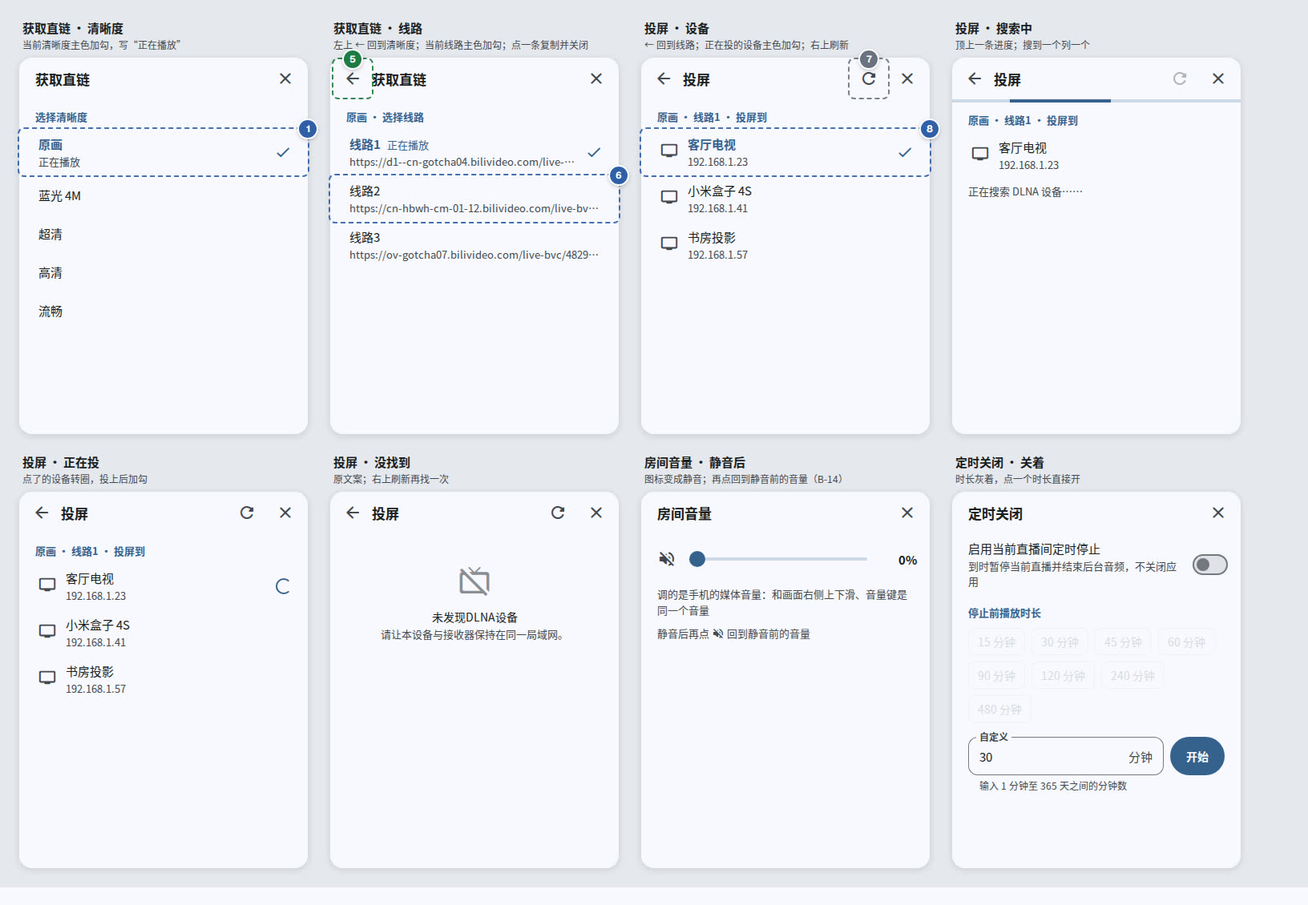
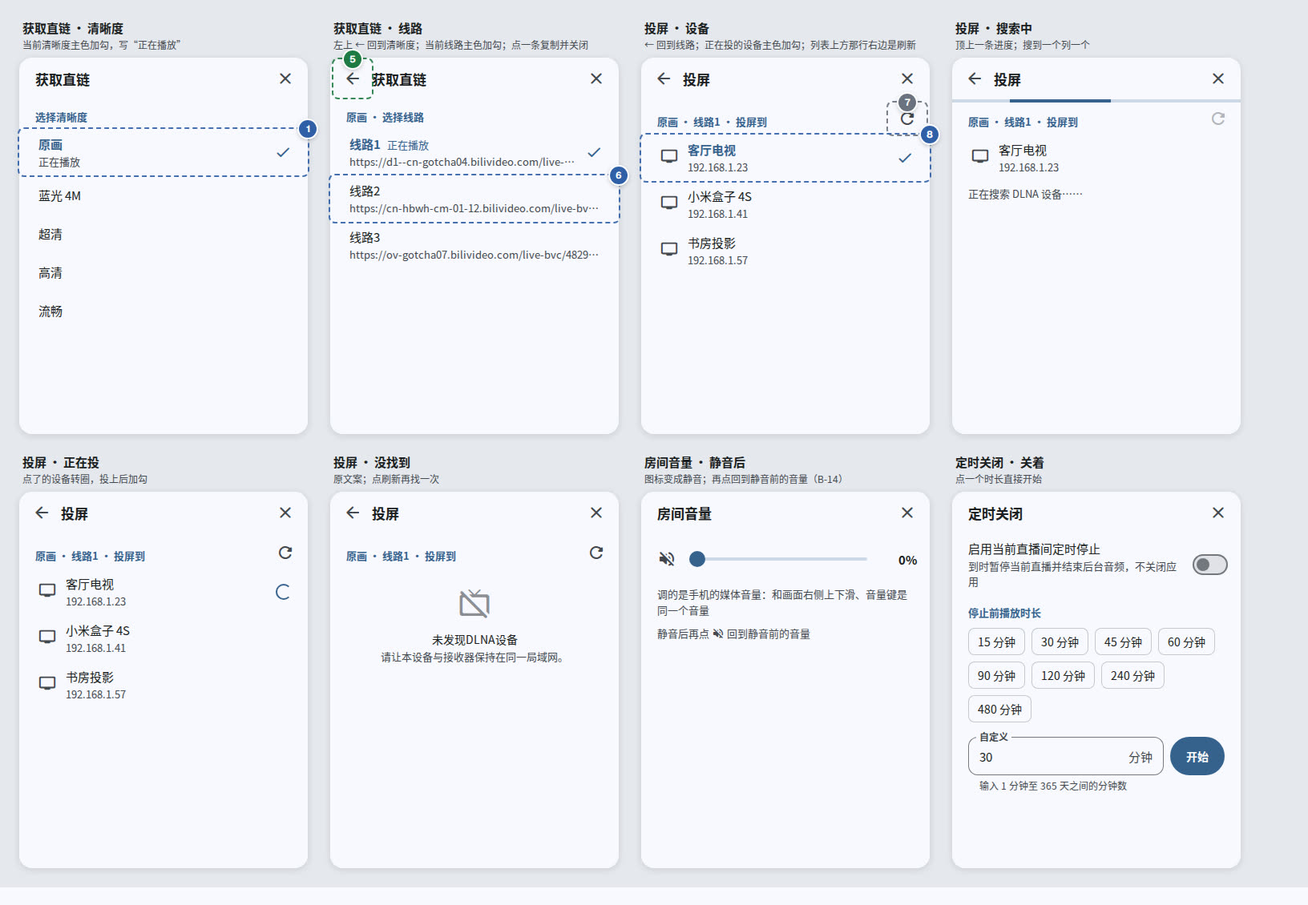
docs(ui): U.2n follows the build: cast refresh over the list, timer presets always tappable

diff --git a/docs/ui/compare/U.2n/src/v4-panels.html b/docs/ui/compare/U.2n/src/v4-panels.html
@@ -159,4 +159,4 @@
 .toast2 .x{flex:1;padding:6px 0}.toast2 .ac{height:40px;padding:0 12px;display:flex;align-items:center;color:#A0CAFD;font-weight:600}
 .lbl2{position:absolute;z-index:50;font:600 12px 'Noto Sans SC';color:#fff;background:#2F5FA8;padding:3px 8px;border-radius:6px}
 .press{position:absolute;z-index:6;border-radius:8px;background:rgba(54,97,142,.14)}
-.win{height:auto}</style></head><body><div class="win" style="--w:1632px;--h:1130px"><div style="display:flex;flex-wrap:wrap;gap:24px;padding:24px;background:var(--sch)"><div><div style="font-size:15px;font-weight:600;margin:0 0 2px 4px">获取直链 · 清晰度</div><div style="font-size:12px;color:var(--onv);margin:0 0 8px 4px;width:360px">当前清晰度主色加勾，写“正在播放”</div><div style="width:360px;height:470px;border-radius:16px;overflow:hidden;box-shadow:0 2px 10px rgba(0,0,0,.12)"><div class="pnl" style="height:100%"><div class="hd"><span class="t">获取直链</span><span class="b"><span class="mr" style="font-size:24px;">close</span></span></div><div class="bd"><div class="cap">选择清晰度</div><div class="opr on" data-n="1" data-at="tr" data-tag="chg"><div class="x"><div class="a">原画</div><div class="b">正在播放</div></div><span class="mr" style="font-size:22px;color:var(--primary)">check</span></div><div class="opr"><div class="x"><div class="a">蓝光 4M</div></div></div><div class="opr"><div class="x"><div class="a">超清</div></div></div><div class="opr"><div class="x"><div class="a">高清</div></div></div><div class="opr"><div class="x"><div class="a">流畅</div></div></div></div></div></div></div><div><div style="font-size:15px;font-weight:600;margin:0 0 2px 4px">获取直链 · 线路</div><div style="font-size:12px;color:var(--onv);margin:0 0 8px 4px;width:360px">左上 ← 回到清晰度；当前线路主色加勾；点一条复制并关闭</div><div style="width:360px;height:470px;border-radius:16px;overflow:hidden;box-shadow:0 2px 10px rgba(0,0,0,.12)"><div class="pnl" style="height:100%"><div class="hd bk"><span class="b" data-n="5" data-at="tc" data-tag="add"><span class="mr" style="font-size:24px;">arrow_back</span></span><span class="t">获取直链</span><span class="b"><span class="mr" style="font-size:24px;">close</span></span></div><div class="bd"><div class="cap">原画 · 选择线路</div><div class="opr on"><div class="x"><div class="a">线路1<span style="font-size:13px;font-weight:400;margin-left:8px">正在播放</span></div><div class="b">https://d1--cn-gotcha04.bilivideo.com/live-bvc/482910/live_1050_bluray.flv?expires=…</div></div><span class="mr" style="font-size:22px;color:var(--primary)">check</span></div><div class="opr" data-n="6" data-at="tr" data-tag="chg"><div class="x"><div class="a">线路2</div><div class="b">https://cn-hbwh-cm-01-12.bilivideo.com/live-bvc/482910/live_1050_bluray.flv?expires=…</div></div></div><div class="opr"><div class="x"><div class="a">线路3</div><div class="b">https://ov-gotcha07.bilivideo.com/live-bvc/482910/live_1050_bluray.m3u8?expires=…</div></div></div></div></div></div></div><div><div style="font-size:15px;font-weight:600;margin:0 0 2px 4px">投屏 · 设备</div><div style="font-size:12px;color:var(--onv);margin:0 0 8px 4px;width:360px">← 回到线路；正在投的设备主色加勾；右上刷新</div><div style="width:360px;height:470px;border-radius:16px;overflow:hidden;box-shadow:0 2px 10px rgba(0,0,0,.12)"><div class="pnl" style="height:100%"><div class="hd bk"><span class="b"><span class="mr" style="font-size:24px;">arrow_back</span></span><span class="t">投屏</span><span class="b" data-n="7" data-at="tc" data-tag="keep"><span class="mr" style="font-size:24px;">refresh</span></span><span class="b"><span class="mr" style="font-size:24px;">close</span></span></div><div class="bd"><div class="cap">原画 · 线路1 · 投屏到</div><div class="opr on" data-n="8" data-at="tr" data-tag="chg"><span class="lead"><span class="mr" style="font-size:22px;">tv</span></span><div class="x"><div class="a">客厅电视</div><div class="b">192.168.1.23</div></div><span class="mr" style="font-size:22px;color:var(--primary)">check</span></div><div class="opr"><span class="lead"><span class="mr" style="font-size:22px;">tv</span></span><div class="x"><div class="a">小米盒子 4S</div><div class="b">192.168.1.41</div></div></div><div class="opr"><span class="lead"><span class="mr" style="font-size:22px;">tv</span></span><div class="x"><div class="a">书房投影</div><div class="b">192.168.1.57</div></div></div></div></div></div></div><div><div style="font-size:15px;font-weight:600;margin:0 0 2px 4px">投屏 · 搜索中</div><div style="font-size:12px;color:var(--onv);margin:0 0 8px 4px;width:360px">顶上一条进度；搜到一个列一个</div><div style="width:360px;height:470px;border-radius:16px;overflow:hidden;box-shadow:0 2px 10px rgba(0,0,0,.12)"><div class="pnl" style="height:100%"><div class="hd bk"><span class="b"><span class="mr" style="font-size:24px;">arrow_back</span></span><span class="t">投屏</span><span class="b" style="opacity:.38"><span class="mr" style="font-size:24px;">refresh</span></span><span class="b"><span class="mr" style="font-size:24px;">close</span></span></div><div class="bd"><div class="prog"><i></i></div><div class="cap">原画 · 线路1 · 投屏到</div><div class="opr"><span class="lead"><span class="mr" style="font-size:22px;">tv</span></span><div class="x"><div class="a">客厅电视</div><div class="b">192.168.1.23</div></div></div><div class="hint">正在搜索 DLNA 设备……</div></div></div></div></div><div><div style="font-size:15px;font-weight:600;margin:0 0 2px 4px">投屏 · 正在投</div><div style="font-size:12px;color:var(--onv);margin:0 0 8px 4px;width:360px">点了的设备转圈，投上后加勾</div><div style="width:360px;height:470px;border-radius:16px;overflow:hidden;box-shadow:0 2px 10px rgba(0,0,0,.12)"><div class="pnl" style="height:100%"><div class="hd bk"><span class="b"><span class="mr" style="font-size:24px;">arrow_back</span></span><span class="t">投屏</span><span class="b"><span class="mr" style="font-size:24px;">refresh</span></span><span class="b"><span class="mr" style="font-size:24px;">close</span></span></div><div class="bd"><div class="cap">原画 · 线路1 · 投屏到</div><div class="opr"><span class="lead"><span class="mr" style="font-size:22px;">tv</span></span><div class="x"><div class="a">客厅电视</div><div class="b">192.168.1.23</div></div><span class="spin"></span></div><div class="opr"><span class="lead"><span class="mr" style="font-size:22px;">tv</span></span><div class="x"><div class="a">小米盒子 4S</div><div class="b">192.168.1.41</div></div></div><div class="opr"><span class="lead"><span class="mr" style="font-size:22px;">tv</span></span><div class="x"><div class="a">书房投影</div><div class="b">192.168.1.57</div></div></div></div></div></div></div><div><div style="font-size:15px;font-weight:600;margin:0 0 2px 4px">投屏 · 没找到</div><div style="font-size:12px;color:var(--onv);margin:0 0 8px 4px;width:360px">原文案；右上刷新再找一次</div><div style="width:360px;height:470px;border-radius:16px;overflow:hidden;box-shadow:0 2px 10px rgba(0,0,0,.12)"><div class="pnl" style="height:100%"><div class="hd bk"><span class="b"><span class="mr" style="font-size:24px;">arrow_back</span></span><span class="t">投屏</span><span class="b"><span class="mr" style="font-size:24px;">refresh</span></span><span class="b"><span class="mr" style="font-size:24px;">close</span></span></div><div class="bd"><div style="padding:40px 24px;text-align:center;color:var(--onv);font-size:14px;line-height:1.6"><span class="mr" style="font-size:40px;opacity:.6">tv_off</span><div style="margin-top:8px;color:var(--on)">未发现DLNA设备</div><div style="font-size:13px">请让本设备与接收器保持在同一局域网。</div></div></div></div></div></div><div><div style="font-size:15px;font-weight:600;margin:0 0 2px 4px">房间音量 · 静音后</div><div style="font-size:12px;color:var(--onv);margin:0 0 8px 4px;width:360px">图标变成静音；再点回到静音前的音量（B-14）</div><div style="width:360px;height:470px;border-radius:16px;overflow:hidden;box-shadow:0 2px 10px rgba(0,0,0,.12)"><div class="pnl" style="height:100%"><div class="hd"><span class="t">房间音量</span><span class="b"><span class="mr" style="font-size:24px;">close</span></span></div><div class="bd"><div class="vol"><span class="ib"><span class="mr" style="font-size:24px;">volume_off</span></span><div class="trk"><i style="width:0%"></i><b style="left:0%"></b></div><span class="pc">0%</span></div><div class="hint">调的是手机的媒体音量：和画面右侧上下滑、音量键是同一个音量</div><div class="hint" style="padding-top:10px">静音后再点 <span class="mr" style="font-size:16px;vertical-align:-3px">volume_off</span> 回到静音前的音量</div></div></div></div></div><div><div style="font-size:15px;font-weight:600;margin:0 0 2px 4px">定时关闭 · 关着</div><div style="font-size:12px;color:var(--onv);margin:0 0 8px 4px;width:360px">时长灰着，点一个时长直接开</div><div style="width:360px;height:470px;border-radius:16px;overflow:hidden;box-shadow:0 2px 10px rgba(0,0,0,.12)"><div class="pnl" style="height:100%"><div class="hd"><span class="t">定时关闭</span><span class="b"><span class="mr" style="font-size:24px;">close</span></span></div><div class="bd"><div class="swr2"><div class="x"><div class="a">启用当前直播间定时停止</div><div class="b">到时暂停当前直播并结束后台音频，不关闭应用</div></div><span class="swm off"></span></div><div class="cap">停止前播放时长</div><div class="chips dis"><span class="">15 分钟</span><span class="">30 分钟</span><span class="">45 分钟</span><span class="">60 分钟</span><span class="">90 分钟</span><span class="">120 分钟</span><span class="">240 分钟</span><span class="">480 分钟</span></div><div class="fdr"><div class="fd2"><span class="lbl">自定义</span><span>30</span><span class="sfx">分钟</span></div><span class="fbtn">开始</span></div><div class="fh2">输入 1 分钟至 365 天之间的分钟数</div></div></div></div></div></div></div></body></html>
+.win{height:auto}</style></head><body><div class="win" style="--w:1632px;--h:1130px"><div style="display:flex;flex-wrap:wrap;gap:24px;padding:24px;background:var(--sch)"><div><div style="font-size:15px;font-weight:600;margin:0 0 2px 4px">获取直链 · 清晰度</div><div style="font-size:12px;color:var(--onv);margin:0 0 8px 4px;width:360px">当前清晰度主色加勾，写“正在播放”</div><div style="width:360px;height:470px;border-radius:16px;overflow:hidden;box-shadow:0 2px 10px rgba(0,0,0,.12)"><div class="pnl" style="height:100%"><div class="hd"><span class="t">获取直链</span><span class="b"><span class="mr" style="font-size:24px;">close</span></span></div><div class="bd"><div class="cap">选择清晰度</div><div class="opr on" data-n="1" data-at="tr" data-tag="chg"><div class="x"><div class="a">原画</div><div class="b">正在播放</div></div><span class="mr" style="font-size:22px;color:var(--primary)">check</span></div><div class="opr"><div class="x"><div class="a">蓝光 4M</div></div></div><div class="opr"><div class="x"><div class="a">超清</div></div></div><div class="opr"><div class="x"><div class="a">高清</div></div></div><div class="opr"><div class="x"><div class="a">流畅</div></div></div></div></div></div></div><div><div style="font-size:15px;font-weight:600;margin:0 0 2px 4px">获取直链 · 线路</div><div style="font-size:12px;color:var(--onv);margin:0 0 8px 4px;width:360px">左上 ← 回到清晰度；当前线路主色加勾；点一条复制并关闭</div><div style="width:360px;height:470px;border-radius:16px;overflow:hidden;box-shadow:0 2px 10px rgba(0,0,0,.12)"><div class="pnl" style="height:100%"><div class="hd bk"><span class="b" data-n="5" data-at="tc" data-tag="add"><span class="mr" style="font-size:24px;">arrow_back</span></span><span class="t">获取直链</span><span class="b"><span class="mr" style="font-size:24px;">close</span></span></div><div class="bd"><div class="cap">原画 · 选择线路</div><div class="opr on"><div class="x"><div class="a">线路1<span style="font-size:13px;font-weight:400;margin-left:8px">正在播放</span></div><div class="b">https://d1--cn-gotcha04.bilivideo.com/live-bvc/482910/live_1050_bluray.flv?expires=…</div></div><span class="mr" style="font-size:22px;color:var(--primary)">check</span></div><div class="opr" data-n="6" data-at="tr" data-tag="chg"><div class="x"><div class="a">线路2</div><div class="b">https://cn-hbwh-cm-01-12.bilivideo.com/live-bvc/482910/live_1050_bluray.flv?expires=…</div></div></div><div class="opr"><div class="x"><div class="a">线路3</div><div class="b">https://ov-gotcha07.bilivideo.com/live-bvc/482910/live_1050_bluray.m3u8?expires=…</div></div></div></div></div></div></div><div><div style="font-size:15px;font-weight:600;margin:0 0 2px 4px">投屏 · 设备</div><div style="font-size:12px;color:var(--onv);margin:0 0 8px 4px;width:360px">← 回到线路；正在投的设备主色加勾；列表上方那行右边是刷新</div><div style="width:360px;height:470px;border-radius:16px;overflow:hidden;box-shadow:0 2px 10px rgba(0,0,0,.12)"><div class="pnl" style="height:100%"><div class="hd bk"><span class="b"><span class="mr" style="font-size:24px;">arrow_back</span></span><span class="t">投屏</span><span class="b"><span class="mr" style="font-size:24px;">close</span></span></div><div class="bd"><div style="height:4px"></div><div style="display:flex;align-items:center;padding-right:4px"><div class="cap" style="flex:1">原画 · 线路1 · 投屏到</div><span class="b" style="width:48px;height:40px;display:grid;place-items:center;color:var(--onv);" data-n="7" data-at="tc" data-tag="keep"><span class="mr" style="font-size:24px;">refresh</span></span></div><div class="opr on" data-n="8" data-at="tr" data-tag="chg"><span class="lead"><span class="mr" style="font-size:22px;">tv</span></span><div class="x"><div class="a">客厅电视</div><div class="b">192.168.1.23</div></div><span class="mr" style="font-size:22px;color:var(--primary)">check</span></div><div class="opr"><span class="lead"><span class="mr" style="font-size:22px;">tv</span></span><div class="x"><div class="a">小米盒子 4S</div><div class="b">192.168.1.41</div></div></div><div class="opr"><span class="lead"><span class="mr" style="font-size:22px;">tv</span></span><div class="x"><div class="a">书房投影</div><div class="b">192.168.1.57</div></div></div></div></div></div></div><div><div style="font-size:15px;font-weight:600;margin:0 0 2px 4px">投屏 · 搜索中</div><div style="font-size:12px;color:var(--onv);margin:0 0 8px 4px;width:360px">顶上一条进度；搜到一个列一个</div><div style="width:360px;height:470px;border-radius:16px;overflow:hidden;box-shadow:0 2px 10px rgba(0,0,0,.12)"><div class="pnl" style="height:100%"><div class="hd bk"><span class="b"><span class="mr" style="font-size:24px;">arrow_back</span></span><span class="t">投屏</span><span class="b"><span class="mr" style="font-size:24px;">close</span></span></div><div class="bd"><div class="prog"><i></i></div><div style="display:flex;align-items:center;padding-right:4px"><div class="cap" style="flex:1">原画 · 线路1 · 投屏到</div><span class="b" style="width:48px;height:40px;display:grid;place-items:center;color:var(--onv);opacity:.38;"><span class="mr" style="font-size:24px;">refresh</span></span></div><div class="opr"><span class="lead"><span class="mr" style="font-size:22px;">tv</span></span><div class="x"><div class="a">客厅电视</div><div class="b">192.168.1.23</div></div></div><div class="hint">正在搜索 DLNA 设备……</div></div></div></div></div><div><div style="font-size:15px;font-weight:600;margin:0 0 2px 4px">投屏 · 正在投</div><div style="font-size:12px;color:var(--onv);margin:0 0 8px 4px;width:360px">点了的设备转圈，投上后加勾</div><div style="width:360px;height:470px;border-radius:16px;overflow:hidden;box-shadow:0 2px 10px rgba(0,0,0,.12)"><div class="pnl" style="height:100%"><div class="hd bk"><span class="b"><span class="mr" style="font-size:24px;">arrow_back</span></span><span class="t">投屏</span><span class="b"><span class="mr" style="font-size:24px;">close</span></span></div><div class="bd"><div style="height:4px"></div><div style="display:flex;align-items:center;padding-right:4px"><div class="cap" style="flex:1">原画 · 线路1 · 投屏到</div><span class="b" style="width:48px;height:40px;display:grid;place-items:center;color:var(--onv);"><span class="mr" style="font-size:24px;">refresh</span></span></div><div class="opr"><span class="lead"><span class="mr" style="font-size:22px;">tv</span></span><div class="x"><div class="a">客厅电视</div><div class="b">192.168.1.23</div></div><span class="spin"></span></div><div class="opr"><span class="lead"><span class="mr" style="font-size:22px;">tv</span></span><div class="x"><div class="a">小米盒子 4S</div><div class="b">192.168.1.41</div></div></div><div class="opr"><span class="lead"><span class="mr" style="font-size:22px;">tv</span></span><div class="x"><div class="a">书房投影</div><div class="b">192.168.1.57</div></div></div></div></div></div></div><div><div style="font-size:15px;font-weight:600;margin:0 0 2px 4px">投屏 · 没找到</div><div style="font-size:12px;color:var(--onv);margin:0 0 8px 4px;width:360px">原文案；点刷新再找一次</div><div style="width:360px;height:470px;border-radius:16px;overflow:hidden;box-shadow:0 2px 10px rgba(0,0,0,.12)"><div class="pnl" style="height:100%"><div class="hd bk"><span class="b"><span class="mr" style="font-size:24px;">arrow_back</span></span><span class="t">投屏</span><span class="b"><span class="mr" style="font-size:24px;">close</span></span></div><div class="bd"><div style="height:4px"></div><div style="display:flex;align-items:center;padding-right:4px"><div class="cap" style="flex:1">原画 · 线路1 · 投屏到</div><span class="b" style="width:48px;height:40px;display:grid;place-items:center;color:var(--onv);"><span class="mr" style="font-size:24px;">refresh</span></span></div><div style="padding:24px 24px;text-align:center;color:var(--onv);font-size:14px;line-height:1.6"><span class="mr" style="font-size:40px;opacity:.6">tv_off</span><div style="margin-top:8px;color:var(--on)">未发现DLNA设备</div><div style="font-size:13px">请让本设备与接收器保持在同一局域网。</div></div></div></div></div></div><div><div style="font-size:15px;font-weight:600;margin:0 0 2px 4px">房间音量 · 静音后</div><div style="font-size:12px;color:var(--onv);margin:0 0 8px 4px;width:360px">图标变成静音；再点回到静音前的音量（B-14）</div><div style="width:360px;height:470px;border-radius:16px;overflow:hidden;box-shadow:0 2px 10px rgba(0,0,0,.12)"><div class="pnl" style="height:100%"><div class="hd"><span class="t">房间音量</span><span class="b"><span class="mr" style="font-size:24px;">close</span></span></div><div class="bd"><div class="vol"><span class="ib"><span class="mr" style="font-size:24px;">volume_off</span></span><div class="trk"><i style="width:0%"></i><b style="left:0%"></b></div><span class="pc">0%</span></div><div class="hint">调的是手机的媒体音量：和画面右侧上下滑、音量键是同一个音量</div><div class="hint" style="padding-top:10px">静音后再点 <span class="mr" style="font-size:16px;vertical-align:-3px">volume_off</span> 回到静音前的音量</div></div></div></div></div><div><div style="font-size:15px;font-weight:600;margin:0 0 2px 4px">定时关闭 · 关着</div><div style="font-size:12px;color:var(--onv);margin:0 0 8px 4px;width:360px">点一个时长直接开始</div><div style="width:360px;height:470px;border-radius:16px;overflow:hidden;box-shadow:0 2px 10px rgba(0,0,0,.12)"><div class="pnl" style="height:100%"><div class="hd"><span class="t">定时关闭</span><span class="b"><span class="mr" style="font-size:24px;">close</span></span></div><div class="bd"><div class="swr2"><div class="x"><div class="a">启用当前直播间定时停止</div><div class="b">到时暂停当前直播并结束后台音频，不关闭应用</div></div><span class="swm off"></span></div><div class="cap">停止前播放时长</div><div class="chips"><span class="">15 分钟</span><span class="">30 分钟</span><span class="">45 分钟</span><span class="">60 分钟</span><span class="">90 分钟</span><span class="">120 分钟</span><span class="">240 分钟</span><span class="">480 分钟</span></div><div class="fdr"><div class="fd2"><span class="lbl">自定义</span><span>30</span><span class="sfx">分钟</span></div><span class="fbtn">开始</span></div><div class="fh2">输入 1 分钟至 365 天之间的分钟数</div></div></div></div></div></div></div></body></html>

diff --git a/docs/ui/compare/U.2n/src/v4-cast-tablet.html b/docs/ui/compare/U.2n/src/v4-cast-tablet.html
@@ -159,4 +159,4 @@
 .toast2 .x{flex:1;padding:6px 0}.toast2 .ac{height:40px;padding:0 12px;display:flex;align-items:center;color:#A0CAFD;font-weight:600}
 .lbl2{position:absolute;z-index:50;font:600 12px 'Noto Sans SC';color:#fff;background:#2F5FA8;padding:3px 8px;border-radius:6px}
 .press{position:absolute;z-index:6;border-radius:8px;background:rgba(54,97,142,.14)}
-.win{display:flex;flex-direction:column}</style></head><body><div class="win" style="--w:1280px;--h:800px"><div class="status"><span>21:36</span><span class="r"><span class="mi">signal_cellular_alt</span><span class="mi">wifi</span><span class="mi">battery_full</span></span></div><div class="appbar"><div class="back"><span class="mi" style="font-size:24px;">arrow_back</span></div><span class="av" style="background-image:url(.cache/img/65.jpg)"></span><div class="tt"><div class="n">晚风</div><div class="s">哔哩哔哩 · 唱见电台</div></div><div class="fol on"><span class="rx" style="font-size:24px;">&#xeb7b;</span>已关注</div><div class="recbtn"><span class="ring"><i></i></span></div><div class="ib"><span class="rx" style="font-size:24px;">&#xea42;</span></div><div style="width:4px"></div></div><div style="flex:1;display:flex;min-height:0"><div style="flex:1;position:relative;background:#000;display:flex;align-items:center;overflow:hidden"><div style="width:100%;aspect-ratio:16/9;background:#000 url(.cache/img/158.jpg) center 55%/cover"></div><div class="vtop"><div class="title">深夜电台 · 点歌接龙到天亮</div><div class="ib vic"><span class="rx" style="font-size:24px;">&#xf235;</span></div></div></div><div style="width:400px;border-left:1px solid var(--ov);position:relative;background:var(--surface)"><div class="pnl" style="position:absolute;top:0;right:0;bottom:0;width:360px;box-shadow:-6px 0 20px rgba(0,0,0,.18)"><div class="pnl" style="height:100%"><div class="hd bk"><span class="b"><span class="mr" style="font-size:24px;">arrow_back</span></span><span class="t">投屏</span><span class="b"><span class="mr" style="font-size:24px;">refresh</span></span><span class="b"><span class="mr" style="font-size:24px;">close</span></span></div><div class="bd"><div class="cap">原画 · 线路1 · 投屏到</div><div class="opr on"><span class="lead"><span class="mr" style="font-size:22px;">tv</span></span><div class="x"><div class="a">客厅电视</div><div class="b">192.168.1.23</div></div><span class="mr" style="font-size:22px;color:var(--primary)">check</span></div><div class="opr"><span class="lead"><span class="mr" style="font-size:22px;">tv</span></span><div class="x"><div class="a">小米盒子 4S</div><div class="b">192.168.1.41</div></div></div><div class="opr"><span class="lead"><span class="mr" style="font-size:22px;">tv</span></span><div class="x"><div class="a">书房投影</div><div class="b">192.168.1.57</div></div></div></div></div></div></div></div></div></body></html>
+.win{display:flex;flex-direction:column}</style></head><body><div class="win" style="--w:1280px;--h:800px"><div class="status"><span>21:36</span><span class="r"><span class="mi">signal_cellular_alt</span><span class="mi">wifi</span><span class="mi">battery_full</span></span></div><div class="appbar"><div class="back"><span class="mi" style="font-size:24px;">arrow_back</span></div><span class="av" style="background-image:url(.cache/img/65.jpg)"></span><div class="tt"><div class="n">晚风</div><div class="s">哔哩哔哩 · 唱见电台</div></div><div class="fol on"><span class="rx" style="font-size:24px;">&#xeb7b;</span>已关注</div><div class="recbtn"><span class="ring"><i></i></span></div><div class="ib"><span class="rx" style="font-size:24px;">&#xea42;</span></div><div style="width:4px"></div></div><div style="flex:1;display:flex;min-height:0"><div style="flex:1;position:relative;background:#000;display:flex;align-items:center;overflow:hidden"><div style="width:100%;aspect-ratio:16/9;background:#000 url(.cache/img/158.jpg) center 55%/cover"></div><div class="vtop"><div class="title">深夜电台 · 点歌接龙到天亮</div><div class="ib vic"><span class="rx" style="font-size:24px;">&#xf235;</span></div></div></div><div style="width:400px;border-left:1px solid var(--ov);position:relative;background:var(--surface)"><div class="pnl" style="position:absolute;top:0;right:0;bottom:0;width:360px;box-shadow:-6px 0 20px rgba(0,0,0,.18)"><div class="pnl" style="height:100%"><div class="hd bk"><span class="b"><span class="mr" style="font-size:24px;">arrow_back</span></span><span class="t">投屏</span><span class="b"><span class="mr" style="font-size:24px;">close</span></span></div><div class="bd"><div style="height:4px"></div><div style="display:flex;align-items:center;padding-right:4px"><div class="cap" style="flex:1">原画 · 线路1 · 投屏到</div><span class="b" style="width:48px;height:40px;display:grid;place-items:center;color:var(--onv);"><span class="mr" style="font-size:24px;">refresh</span></span></div><div class="opr on"><span class="lead"><span class="mr" style="font-size:22px;">tv</span></span><div class="x"><div class="a">客厅电视</div><div class="b">192.168.1.23</div></div><span class="mr" style="font-size:22px;color:var(--primary)">check</span></div><div class="opr"><span class="lead"><span class="mr" style="font-size:22px;">tv</span></span><div class="x"><div class="a">小米盒子 4S</div><div class="b">192.168.1.41</div></div></div><div class="opr"><span class="lead"><span class="mr" style="font-size:22px;">tv</span></span><div class="x"><div class="a">书房投影</div><div class="b">192.168.1.57</div></div></div></div></div></div></div></div></div></body></html>

diff --git a/docs/ui/compare/U.2n/src/gen.py b/docs/ui/compare/U.2n/src/gen.py
@@ -130,7 +130,7 @@ def timer_body(n=False, on=True, chosen=30, left='28 分钟后暂停（22:04）'
     return (f'<div class="swr2"{N(nn(1), "tr", "chg")}><div class="x"><div class="a">启用当前直播间定时停止</div>'
             f'<div class="b{" on" if on else ""}">{sub}</div></div><span class="swm{"" if on else " off"}"></span></div>'
             '<div class="cap">停止前播放时长</div>'
-            f'<div class="chips{"" if on else " dis"}">{chips}</div>'
+            f'<div class="chips">{chips}</div>'
             f'<div class="fdr"><div class="fd2"{N(nn(3), "tl", "keep")}><span class="lbl">自定义</span><span>{chosen}</span><span class="sfx">分钟</span></div>'
             f'<span class="fbtn"{N(nn(4), "tc", "chg")}>开始</span></div>'
             '<div class="fh2">输入 1 分钟至 365 天之间的分钟数</div>')
@@ -178,16 +178,19 @@ DEVICES = [('客厅电视', '192.168.1.23'), ('小米盒子 4S', '192.168.1.41')
 
 def cast_body(state='ready', n=False):
     nn = (lambda k: k) if n else (lambda k: None)
-    prog = '<div class="prog"><i></i></div>' if state == 'searching' else ''
+    prog = '<div class="prog"><i></i></div>' if state == 'searching' else '<div style="height:4px"></div>'
+    refresh = (f'<span class="b" style="width:48px;height:40px;display:grid;place-items:center;color:var(--onv);{"opacity:.38;" if state == "searching" else ""}"'
+               f'{N(nn(7), "tc", "keep")}>' + mr('refresh') + '</span>')
+    caption = f'<div style="display:flex;align-items:center;padding-right:4px"><div class="cap" style="flex:1">原画 · 线路1 · 投屏到</div>{refresh}</div>'
     if state == 'empty':
-        return ('<div style="padding:40px 24px;text-align:center;color:var(--onv);font-size:14px;line-height:1.6">' + mr('tv_off', 40, 'opacity:.6') +
+        return (prog + caption + '<div style="padding:24px 24px;text-align:center;color:var(--onv);font-size:14px;line-height:1.6">' + mr('tv_off', 40, 'opacity:.6') +
                 '<div style="margin-top:8px;color:var(--on)">未发现DLNA设备</div><div style="font-size:13px">请让本设备与接收器保持在同一局域网。</div></div>')
     rows = []
     for i, (name, ip) in enumerate(DEVICES if state != 'searching' else DEVICES[:1]):
         cur = state == 'cast' and i == 0
         trail = ('<span class="spin"></span>' if state == 'casting' and i == 0 else (mr('check', 22, 'color:var(--primary)') if cur else ''))
         rows.append(f'<div class="opr{" on" if cur else ""}"{N(nn(8), "tr", "chg") if i == 0 else ""}><span class="lead">' + mr('tv', 22) + f'</span><div class="x"><div class="a">{name}</div><div class="b">{ip}</div></div>{trail}</div>')
-    return prog + '<div class="cap">原画 · 线路1 · 投屏到</div>' + ''.join(rows) + ('<div class="hint">正在搜索 DLNA 设备……</div>' if state == 'searching' else '')
+    return prog + caption + ''.join(rows) + ('<div class="hint">正在搜索 DLNA 设备……</div>' if state == 'searching' else '')
 
 
 def message_body(n=False):
@@ -288,7 +291,7 @@ def v4_link_portrait_fullscreen():
 
 
 def v4_cast_tablet():
-    return tablet(pnl('投屏', cast_body('cast'), back=True, actions='<span class="b">' + mr('refresh') + '</span>'))
+    return tablet(pnl('投屏', cast_body('cast'), back=True))
 
 
 def v4_message_landscape():
@@ -303,12 +306,12 @@ def v4_panels(n=True):
     cells = [
         ('获取直链 · 清晰度', '当前清晰度主色加勾，写“正在播放”', pnl('获取直链', quality_body(n=n), n=False)),
         ('获取直链 · 线路', '左上 ← 回到清晰度；当前线路主色加勾；点一条复制并关闭', pnl('获取直链', line_body(n=n), back=True, n_back=nn(5))),
-        ('投屏 · 设备', '← 回到线路；正在投的设备主色加勾；右上刷新', pnl('投屏', cast_body('cast', n=n), back=True, actions=f'<span class="b"{N(nn(7), "tc", "keep")}>' + mr('refresh') + '</span>')),
-        ('投屏 · 搜索中', '顶上一条进度；搜到一个列一个', pnl('投屏', cast_body('searching'), back=True, actions='<span class="b" style="opacity:.38">' + mr('refresh') + '</span>')),
-        ('投屏 · 正在投', '点了的设备转圈，投上后加勾', pnl('投屏', cast_body('casting'), back=True, actions='<span class="b">' + mr('refresh') + '</span>')),
-        ('投屏 · 没找到', '原文案；右上刷新再找一次', pnl('投屏', cast_body('empty'), back=True, actions='<span class="b">' + mr('refresh') + '</span>')),
+        ('投屏 · 设备', '← 回到线路；正在投的设备主色加勾；列表上方那行右边是刷新', pnl('投屏', cast_body('cast', n=n), back=True)),
+        ('投屏 · 搜索中', '顶上一条进度；搜到一个列一个', pnl('投屏', cast_body('searching'), back=True)),
+        ('投屏 · 正在投', '点了的设备转圈，投上后加勾', pnl('投屏', cast_body('casting'), back=True)),
+        ('投屏 · 没找到', '原文案；点刷新再找一次', pnl('投屏', cast_body('empty'), back=True)),
         ('房间音量 · 静音后', '图标变成静音；再点回到静音前的音量（B-14）', pnl('房间音量', volume_body(muted=True))),
-        ('定时关闭 · 关着', '时长灰着，点一个时长直接开', pnl('定时关闭', timer_body(on=False))),
+        ('定时关闭 · 关着', '点一个时长直接开始', pnl('定时关闭', timer_body(on=False))),
     ]
     o = ['<div style="display:flex;flex-wrap:wrap;gap:24px;padding:24px;background:var(--sch)">']
     for cap, sub, inner in cells:

diff --git a/docs/ui/compare/U.2n/README.md b/docs/ui/compare/U.2n/README.md
@@ -74,7 +74,7 @@
 
 1. **定时关闭**：开关“启用当前直播间定时停止”，下面一行开着时写“X 分钟后暂停（HH:mm）”（主色），关着时写原来的说明；“停止前播放时长”8 个时长，点一个直接开始；“自定义”分钟输入框 + “开始”，超出 1～525600 时框下写原因。改动立即生效，面板留着。
 2. **房间音量**：静音按钮、滑块、百分比；下面一行说明：手机、平板上“调的是手机的媒体音量：和画面右侧上下滑、音量键是同一个音量”；电脑上“只对这个直播间生效，下次进来还是这个音量”。静音后再点回到静音前的音量。
-3. **获取直链 / 投屏**：第一页“选择清晰度”（`DialogOptionRow`，正在播的主色加勾、写“正在播放”）；点一档读取线路（转圈），第二页“<清晰度> · 选择线路”，← 回第一页，正在播的线路主色加勾，下面一行是地址；获取直链点一条复制、提示“已复制直链”、关面板；投屏点一条到第三页“<清晰度> · <线路> · 投屏到”，← 回线路，右上刷新，设备行左边电视图标，点了转圈、投上后主色加勾。只有一档清晰度直接读线路；只有一条线路直接复制（投屏直接到设备页）；回放的节目直接用回放地址。读取失败、需要应用内会话照原文案写在顶上。
+3. **获取直链 / 投屏**：第一页“选择清晰度”（`DialogOptionRow`，正在播的主色加勾、写“正在播放”）；点一档读取线路（转圈），第二页“<清晰度> · 选择线路”，← 回第一页，正在播的线路主色加勾，下面一行是地址；获取直链点一条复制、提示“已复制直链”、关面板；投屏点一条到第三页“<清晰度> · <线路> · 投屏到”，← 回线路，列表上方那一行右边是刷新，设备行左边电视图标，点了转圈、投上后主色加勾。只有一档清晰度直接读线路；只有一条线路直接复制（投屏直接到设备页）；回放的节目直接用回放地址。读取失败、需要应用内会话照原文案写在顶上。
 4. **长按弹幕**：标题“弹幕”，弹幕卡片，复制 / 屏蔽此用户 / 屏蔽关键词…（内容照 U.2f）；点“屏蔽关键词…”关面板、弹输入对话框（预填弹幕，单行，字数 40，按钮“屏蔽”）。
 
 小菜单：
